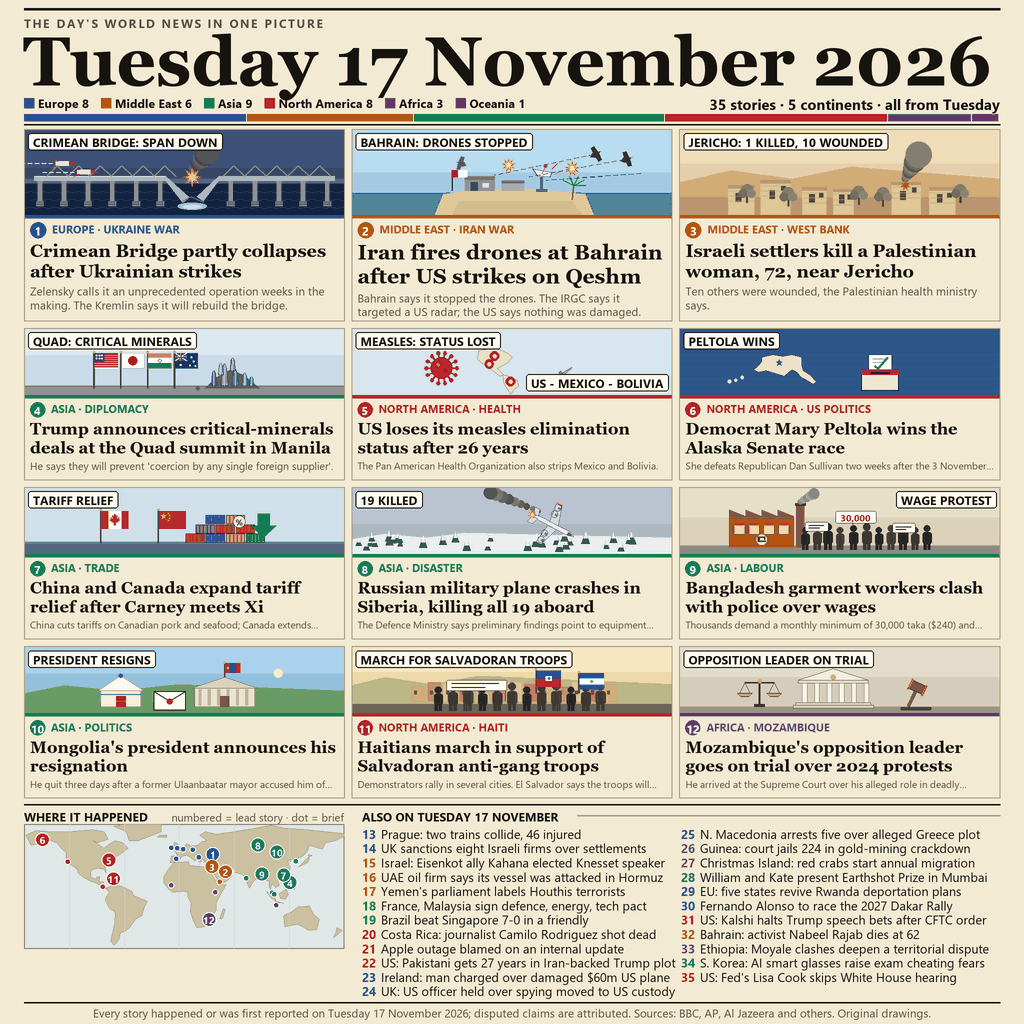
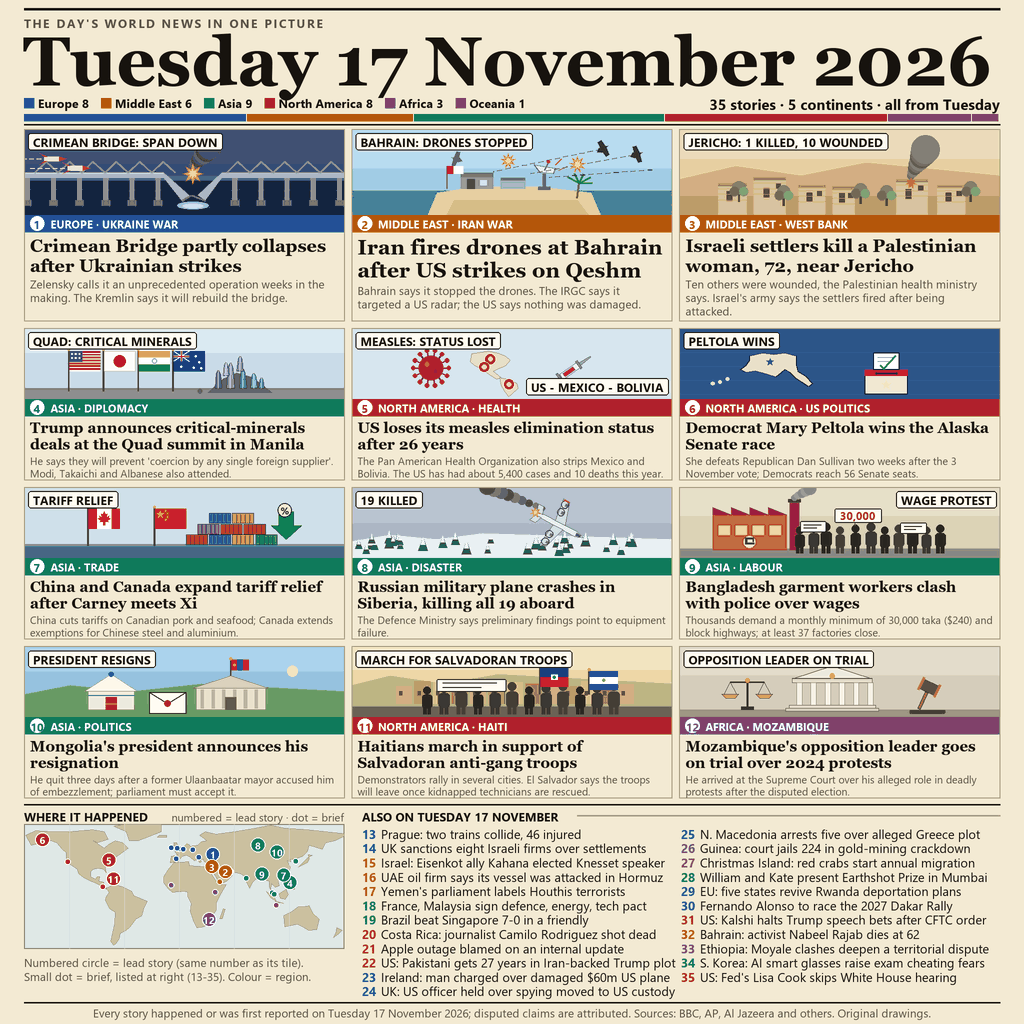
feat(image): taller scene panels, label strips, map notes

diff --git a/gen_news.py b/gen_news.py
@@ -338,14 +338,14 @@ def sc_quad(c, W_):
     c.rect(0, 0, W_, 40, "#dce9f2")
     c.rect(0, 88, W_, 100, "#8e8f94")
     c.rect(0, 86, W_, 88, "#7b7c82")
-    xs = [cx - 135, cx - 95, cx - 55, cx - 15]
+    xs = [cx - 150, cx - 105, cx - 60, cx - 15]
     fl = [f_usa, f_jp, f_in, f_au]
     for x, f in zip(xs, fl):
         pole(c, x, 36, 90)
-        f(c, x + 1, 38, 34, 22)
+        f(c, x + 1, 38, 40, 26)
     # ore pile
     cols = ["#6a4aa8", "#8d6ad0", "#4a8fb0", "#5fb1c9", "#a78be0"]
-    base = [(cx + 30, 90), (cx + 50, 72), (cx + 68, 62), (cx + 88, 70), (cx + 112, 90)]
+    base = [(cx + 30, 92), (cx + 50, 74), (cx + 68, 66), (cx + 88, 72), (cx + 114, 92)]
     c.poly(base, "#5d5a63")
     for (x, y, h, wd, i) in [(cx + 44, 86, 24, 8, 0), (cx + 60, 86, 34, 10, 1), (cx + 76, 86, 26, 9, 2),
                               (cx + 90, 86, 20, 8, 3), (cx + 54, 70, 18, 7, 4), (cx + 72, 64, 20, 8, 1), (cx + 100, 86, 14, 7, 2)]:
@@ -361,13 +361,14 @@ def sc_measles(c, W_):
     # Americas silhouette (coarse)
     na = [(-30, 34), (-8, 30), (4, 33), (14, 38), (20, 44), (14, 52), (6, 56), (-2, 60), (4, 66), (8, 70), (2, 72), (-6, 66), (-16, 58), (-26, 52), (-32, 46)]
     sa = [(6, 70), (16, 72), (28, 78), (30, 86), (22, 94), (18, 99), (12, 90), (8, 82)]
-    ox = cx - 20
-    c.poly([(ox + x, y) for x, y in na], "#e8dfc4", "#8e8468", 0.9)
-    c.poly([(ox + x, y) for x, y in sa], "#e8dfc4", "#8e8468", 0.9)
+    ox = cx - 22
+    ym = lambda y: 38 + (y - 30) * 0.86
+    c.poly([(ox + x, ym(y)) for x, y in na], "#e8dfc4", "#8e8468", 0.9)
+    c.poly([(ox + x, ym(y)) for x, y in sa], "#e8dfc4", "#8e8468", 0.9)
     # hotspots US, Mexico, Bolivia
     for (x, y) in [(-6, 42), (-14, 54), (18, 80)]:
-        c.circ(ox + x, y, 7, "#b0202c")
-        c.circ(ox + x, y, 3, "#f3c9c4")
+        c.circ(ox + x, ym(y), 7, "#b0202c", "#ffffff", 0.8)
+        c.circ(ox + x, ym(y), 3, "#f3c9c4")
     # virus particle (left)
     vx, vy = cx - 105, 60
     for i in range(14):
@@ -378,7 +379,7 @@ def sc_measles(c, W_):
     c.circ(vx - 5, vy - 5, 3, "#d94b55")
     c.circ(vx + 6, vy + 4, 2.4, "#8f1823")
     # syringe (right, diagonal)
-    sx, sy = cx + 80, 66
+    sx, sy = cx + 92, 52
     parts = [
         ([(-34, -4), (-6, -4), (-6, 4), (-34, 4)], "#f2f4f7"),
         ([(-6, -2), (12, -0.6), (12, 0.6), (-6, 2)], "#9aa3ad"),
@@ -438,10 +439,10 @@ def sc_trade(c, W_):
                 c.line([(x + j * 5.6, y + 1), (x + j * 5.6, y + 12)], "#1f2a36", 0.4)
             k += 1
     # down arrow with tariff %
-    ax = cx + 118
+    ax = cx + 132
     c.poly([(ax - 9, 40), (ax + 9, 40), (ax + 9, 58), (ax + 19, 58), (ax, 76), (ax - 19, 58), (ax - 9, 58)], "#1c8a4a", "#0f5a2e", 1)
-    c.circ(ax - 36, 52, 9, "#f3ead3", "#1f2a36", 1)
-    c.text(ax - 36, 52.5, "%", "sb", 13, "#1f2a36", "mm")
+    c.circ(ax - 2, 38, 9, "#f3ead3", "#1f2a36", 1)
+    c.text(ax - 2, 38.5, "%", "sb", 13, "#1f2a36", "mm")
 
 
 def sc_plane(c, W_):
@@ -656,8 +657,8 @@ def draw_plate(im, w, h, text, pos, px):
 
 def make_panel(story, w, h, k_plate_px):
     im = Image.new("RGB", (round(w * S), round(h * S)), "#ffffff")
-    k = h / 100.0
-    c = Cv(im, k)
+    k = h / 92.0
+    c = Cv(im, k, 0, -8 * k)
     fn, p1, pos1, p2, pos2 = SCENES[story["id"]]
     fn(c, w / k)
     draw_plate(im, w, h, p1, pos1, k_plate_px)
@@ -877,22 +878,21 @@ def render():
         reg = REG[st["region"]]
         tile = (x0, y0, x0 + tw_, y0 + th)
         # panel
-        ph = round(th * (0.45 if big else 0.44))
+        SH = 17
+        ph = 86 if big else 71
         pimg = make_panel(st, round(tw_), ph, 12)
         im.paste(pimg, (round(x0 * S), round(y0 * S)))
-        c.rect(x0, y0 + ph, x0 + tw_, y0 + ph + 3, reg)
+        c.rect(x0, y0 + ph, x0 + tw_, y0 + ph + SH, reg)
         c.rect(x0, y0, x0 + tw_, y0 + th, None, "#a99d82", 0.8)
-        ty_ = y0 + ph + 3 + 4
-        # number badge + label
-        br = 8 if big else 7.5
-        c.circ(x0 + 6 + br, ty_ + br, br, reg)
-        put.fill = "#ffffff"
-        put(f"badge {st['id']}", str(st["id"]), "sb", 12 if big else 11.5, x0 + 6 + br, ty_ + br + 0.5, "mm", tile)
+        # number badge + label strip
+        br = 7.2
+        c.circ(x0 + 6 + br, y0 + ph + SH / 2, br, "#ffffff")
         put.fill = reg
-        lab = f"{st['region'].upper()} \u00b7 {st['beat']}"
-        lpx = 11
-        put(f"label {st['id']}", lab, "sb", lpx, x0 + 6 + 2 * br + 6, ty_ + br - 1, "lm", tile)
-        ty_ += 2 * br + 2
+        put(f"badge {st['id']}", str(st["id"]), "sb", 11.5, x0 + 6 + br, y0 + ph + SH / 2 + 0.5, "mm", tile)
+        put.fill = "#ffffff"
+        lab = f"{st['region'].upper()} · {st['beat']}"
+        put(f"label {st['id']}", lab, "sb", 11, x0 + 6 + 2 * br + 6, y0 + ph + SH / 2 + 0.5, "lm", tile)
+        ty_ = y0 + ph + SH + 3
         # headline
         inner = tw_ - 12
         if big:
@@ -901,31 +901,33 @@ def render():
             except AssertionError:
                 hpx, hlines = fit_head(st["head"], inner, [19, 18, 17.5, 17], 3)
         else:
-            hpx, hlines = fit_head(st["head"], inner, [16.5, 16, 15.5, 15, 14.5, 14], 2)
-        lh = hpx * 1.14
+            hpx, hlines = fit_head(st["head"], inner, [15, 14.5, 14], 2)
+        lh = hpx * 1.1
         put.fill = INK
         for j, ln in enumerate(hlines):
             put(f"head {st['id']}.{j}", ln, "gb", hpx, x0 + 6, ty_ + j * lh, "la", tile)
-        ty_ += len(hlines) * lh + 2
+        ty_ += len(hlines) * lh + 1.5
         # sub
         spx_l = [11.5, 11, 10.5, 10]
-        remaining = (y0 + th - 3) - ty_
+        remaining = (y0 + th - 2) - ty_
         sizes_ok = None
         for spx in spx_l:
-            ml = int(remaining // (spx * 1.2))
+            ml = int(remaining // (spx * 1.17))
             p, lines = fit_sub(st["sub"], inner, [spx], ml)
             if lines and not lines[-1].endswith("\u2026") and p == spx and len(lines) <= ml:
                 sizes_ok = (p, lines)
                 break
         if sizes_ok is None:
             spx = 10
-            ml = int(remaining // (spx * 1.2))
+            ml = int(remaining // (spx * 1.17))
             sizes_ok = fit_sub(st["sub"], inner, [spx], ml)
         sp, slines = sizes_ok
+        if slines and slines[-1].endswith("…"):
+            print("TRUNCATED sub", st["id"], slines)
         assert sp is None or sp >= 10
         put.fill = SOFT
         for j, ln in enumerate(slines or []):
-            put(f"sub {st['id']}.{j}", ln, "s", sp, x0 + 6, ty_ + j * sp * 1.2, "la", tile)
+            put(f"sub {st['id']}.{j}", ln, "s", sp, x0 + 6, ty_ + j * sp * 1.17, "la", tile)
 
     # ---- map
     put.fill = INK
@@ -958,6 +960,10 @@ def render():
         c.circ(x_, y_, r_, col, "#ffffff", 1.2)
         put.fill = "#ffffff"
         put(f"pin {rr['id']}", str(rr["id"]), "sb", 10, x_, y_ + 0.4, "mm", mb)
+    ky = box[3] + 6
+    put.fill = SOFT
+    put("map note 1", "Numbered circle = lead story (same number as its tile).", "s", 11.5, M, ky, "la", (M, ky - 2, M + map_w + 2, ky + 16))
+    put("map note 2", "Small dot = brief, listed at right (13-35). Colour = region.", "s", 11.5, M, ky + 14, "la", (M, ky + 12, M + map_w + 2, ky + 30))
     # ---- briefs
     rx = M + map_w + 18
     colw = (W - M - rx) / 2
